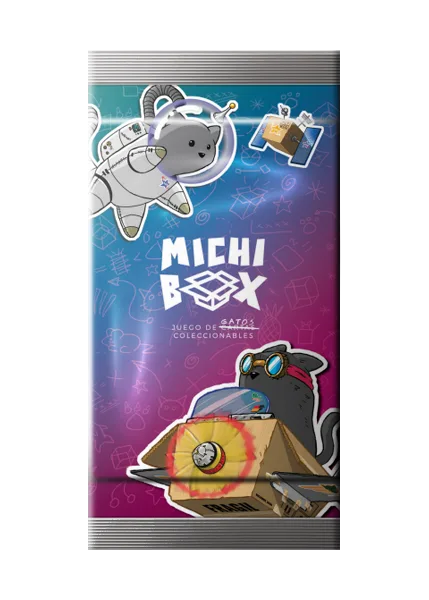
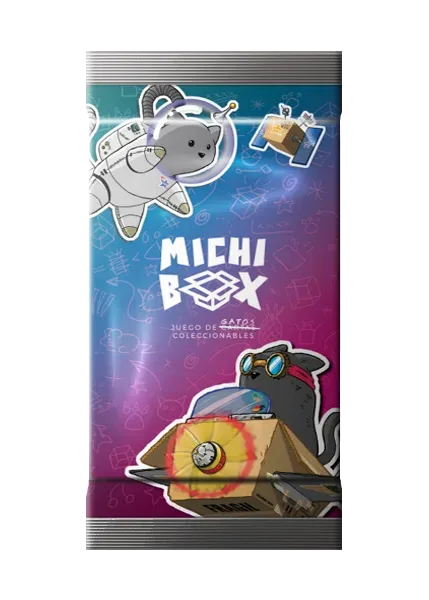
vsobresb

diff --git a/style/style.css b/style/style.css
@@ -1363,7 +1363,7 @@ animation: sobreflotar 1.2s ease-in-out alternate infinite, brillosobres 1.8s ea
             filter: brightness(1) saturate(1) contrast(1);
   }
     100%{
-            filter: brightness(1.1) saturate(1.3) contrast(1.5);
+            filter: brightness(1.3) saturate(1.3) contrast(2);
 
   }
 }
